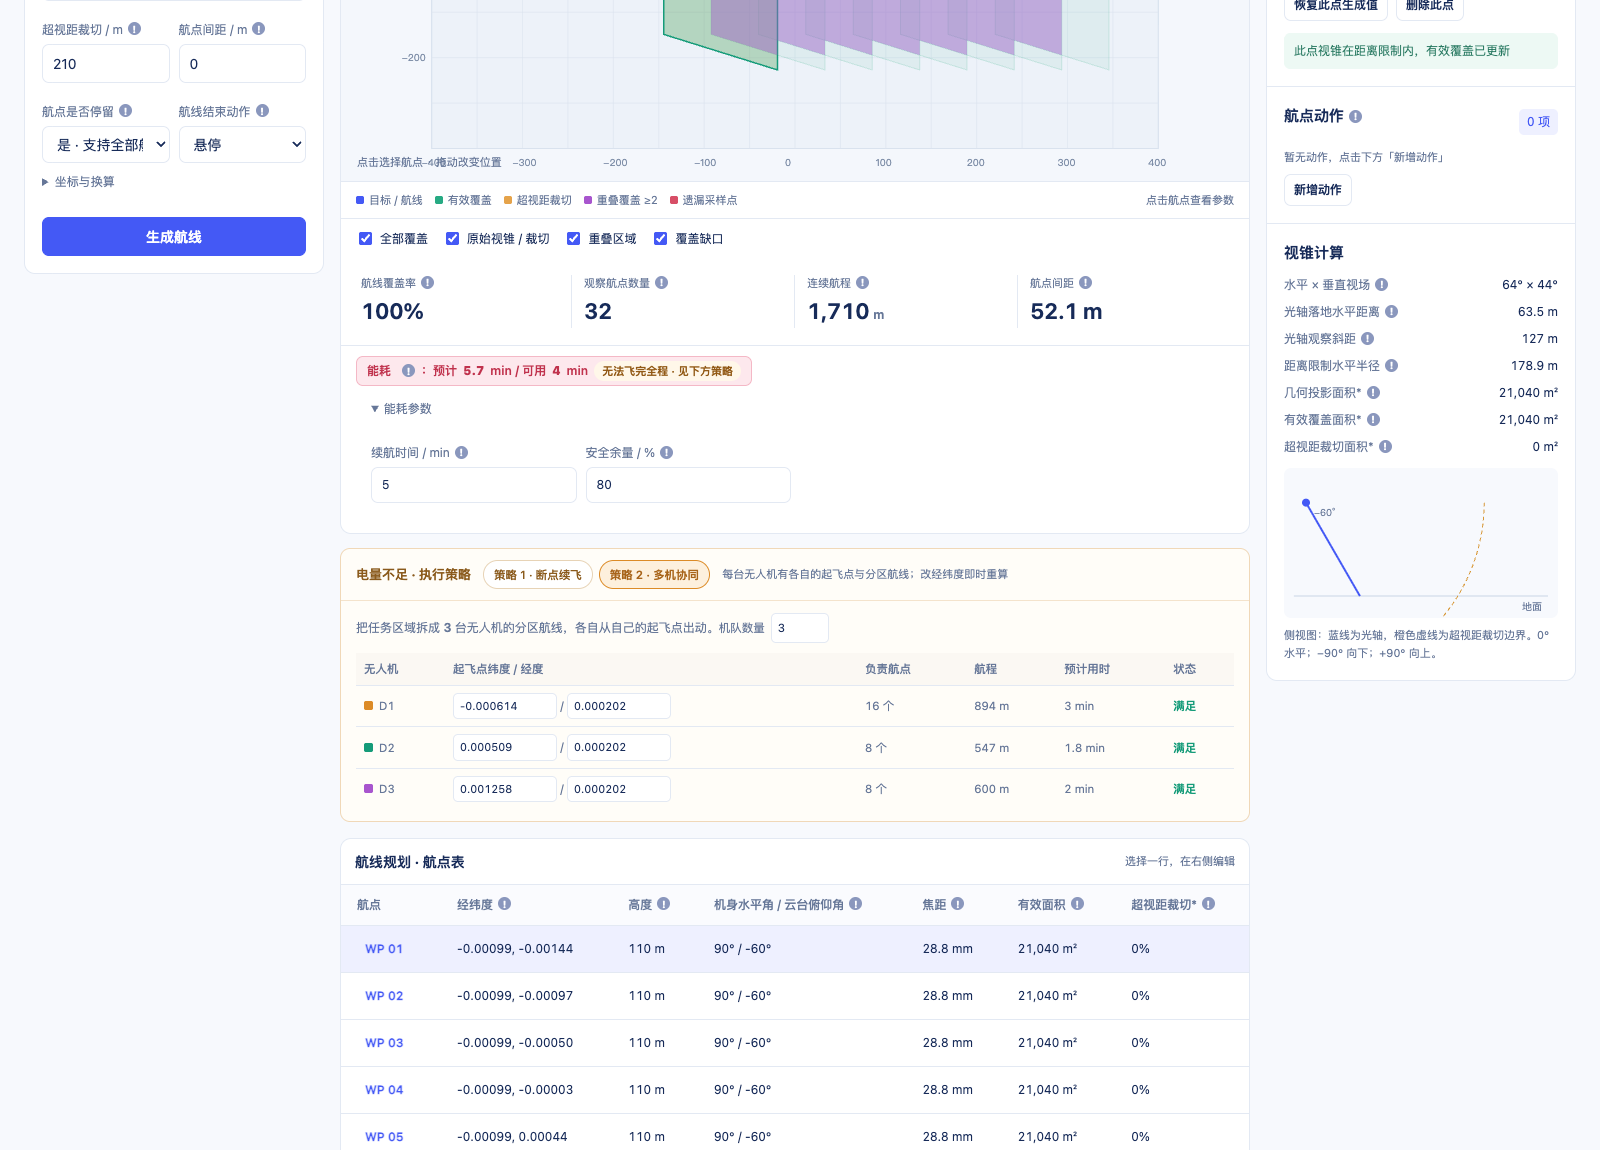
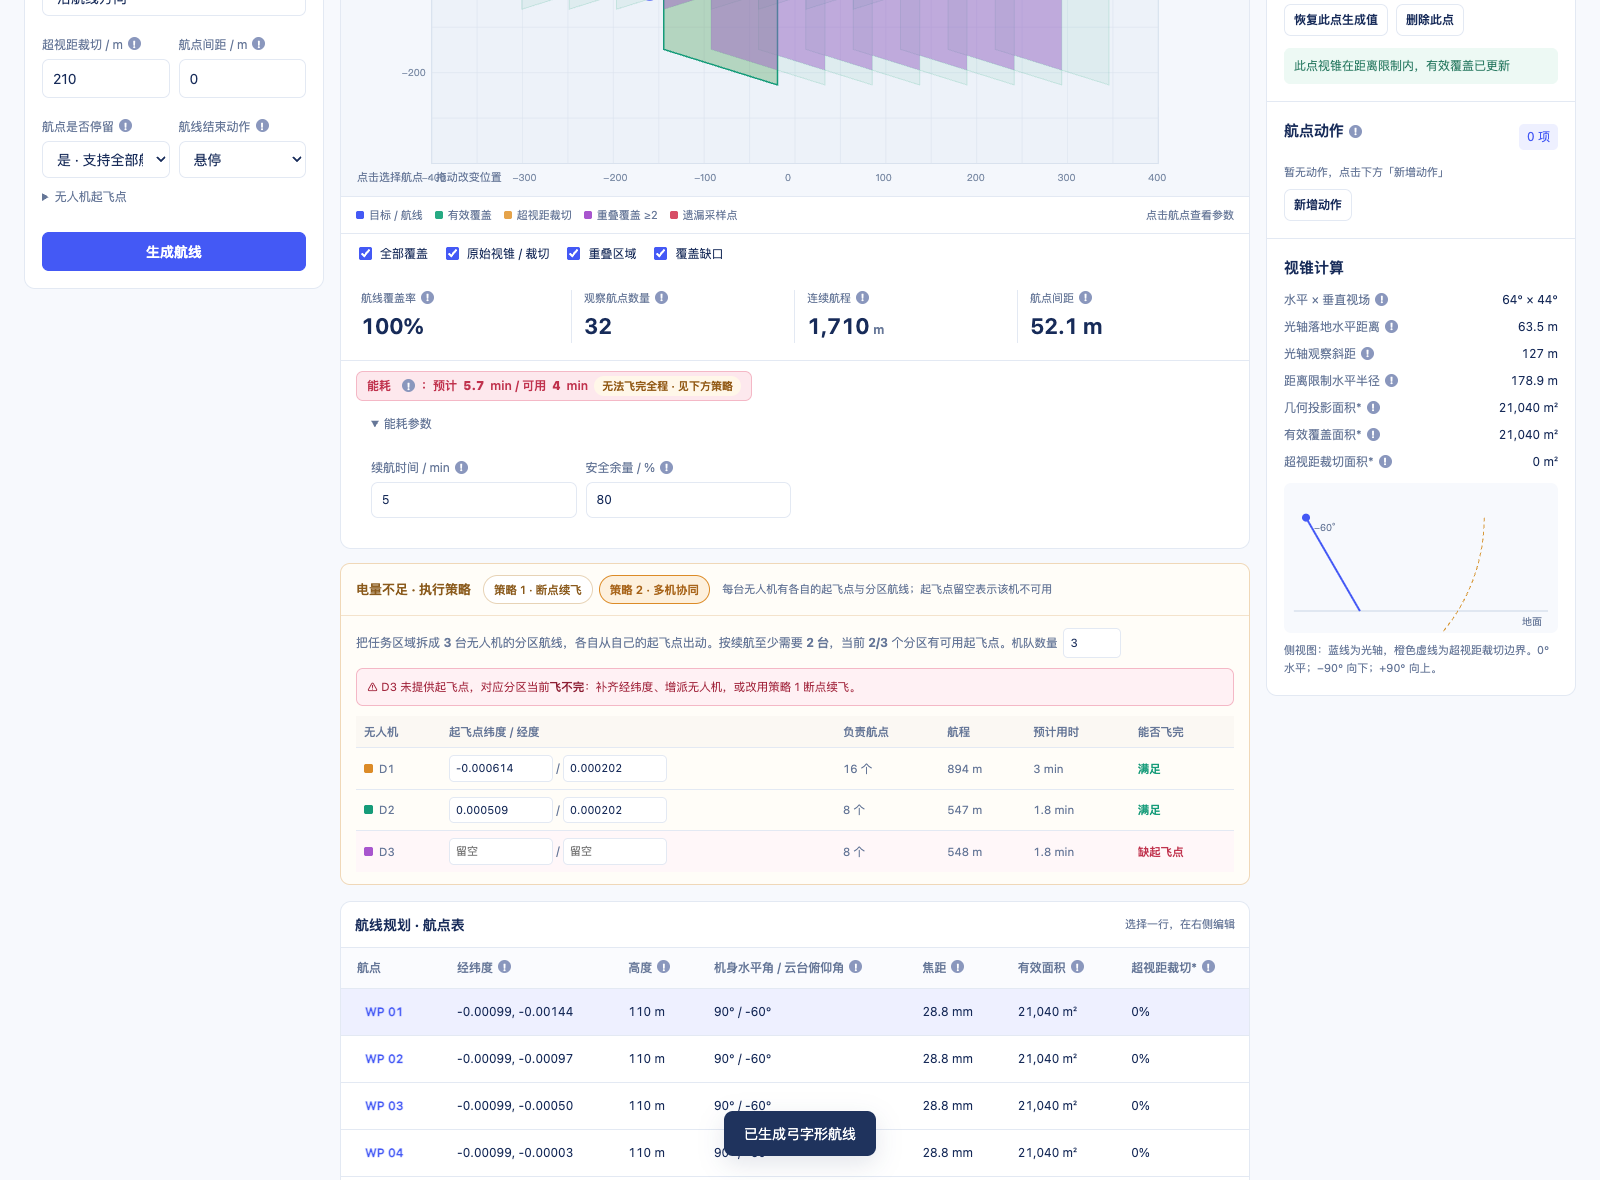
Rename take-off block, flag multi-drone partitions without a take-off point as unflyable (v1.4.1)

diff --git a/page/index.html b/page/index.html
@@ -60,6 +60,8 @@
 .plan-table input{width:104px;padding:4px 6px;border:1px solid var(--line);border-radius:5px;font-size:11px}
 .plan-bad{color:#c0324d;font-weight:600}
 .plan-ok{color:#159b79;font-weight:600}
+.plan-warn{margin:0 0 10px;padding:8px 10px;border-radius:7px;background:#fff1f4;border:1px solid #f4b8c6;color:#a3283f;font-size:11.5px;line-height:1.7}
+.plan-warn b{color:#8d1f34}
 .plan-count{display:inline-flex;align-items:center;gap:6px;font-size:11.5px}
 .plan-count input{width:58px;padding:4px 6px;border:1px solid var(--line);border-radius:5px}
 @media(max-width:1080px){.dev-layout{grid-template-columns:1fr}}
@@ -195,7 +197,7 @@
 </label>
 </div>
 <details>
-<summary>坐标与换算</summary>
+<summary>无人机起飞点</summary>
 <div class="pair">
 <label class="field">
 <span>起飞点纬度 / °<i class="fi" tabindex="0" data-tip="经纬度换算原点（等距圆柱近似）；画布绘制与坐标输入仍使用局部米制。">!</i></span>
@@ -595,18 +597,27 @@ function renderPlan(){const panel=$('planPanel'),body=$('planBody'),c=state.conf
    const k=Math.max(2,Math.min(6,+p.count||2));
    if(p.homes.length!==k)ensurePlanHomes(k);
    const res=planMulti(c,budget,k,p.homes);p.result={kind:'multi',...res};
-   $('planHint').textContent='每台无人机有各自的起飞点与分区航线；改经纬度即时重算';
-   const rows=res.drones.map((d,i)=>{const h=p.homes[i]||{lat:0,lon:0};
-     const st=d.feasible?'<span class="plan-ok">满足</span>':'<span class="plan-bad">超限</span>';
-     return '<tr><td><i style="display:inline-block;width:9px;height:9px;border-radius:2px;background:'+d.color+';margin-right:6px"></i>D'+d.id+'</td>'
-      +'<td><input data-home="'+i+'" data-key="lat" type="number" step="0.000001" value="'+h.lat+'"> / <input data-home="'+i+'" data-key="lon" type="number" step="0.000001" value="'+h.lon+'"></td>'
+   $('planHint').textContent='每台无人机有各自的起飞点与分区航线；起飞点留空表示该机不可用';
+   const needK=Math.max(1,Math.ceil(r.time/budget));
+   const needLabel=needK>6?'≥6 台（已达分区上限）':needK+' 台';
+   const have=res.drones.filter(d=>d.hasHome), miss=res.drones.filter(d=>!d.hasHome), over=res.drones.filter(d=>d.hasHome&&!d.feasible);
+   const rows=res.drones.map((d,i)=>{const h=p.homes[i]||{lat:null,lon:null};
+     const st=!d.hasHome?'<span class="plan-bad">缺起飞点</span>':(d.feasible?'<span class="plan-ok">满足</span>':'<span class="plan-bad">超限</span>');
+     const cls=d.feasible?'':(d.hasHome?'':' style="background:#fff7f9"');
+     const lat=Number.isFinite(+h.lat)?h.lat:'',lon=Number.isFinite(+h.lon)?h.lon:'';
+     return '<tr'+cls+'><td><i style="display:inline-block;width:9px;height:9px;border-radius:2px;background:'+d.color+';margin-right:6px"></i>D'+d.id+'</td>'
+      +'<td><input data-home="'+i+'" data-key="lat" type="number" step="0.000001" value="'+lat+'" placeholder="留空" aria-label="D'+d.id+' 起飞点纬度"> / <input data-home="'+i+'" data-key="lon" type="number" step="0.000001" value="'+lon+'" placeholder="留空" aria-label="D'+d.id+' 起飞点经度"></td>'
       +'<td>'+d.idx.length+' 个</td><td>'+format(d.dist,0)+' m</td><td>'+format(d.time/60,1)+' min</td><td>'+st+'</td></tr>';}).join('');
+   const warnMiss=miss.length?('<div class="plan-warn">⚠ '+miss.map(d=>'D'+d.id).join('、')+' 未提供起飞点，对应分区当前<b>飞不完</b>：补齐经纬度、增派无人机，或改用策略 1 断点续飞。</div>'):'';
+   const warnOver=over.length?('<div class="plan-warn">⚠ '+over.map(d=>'D'+d.id).join('、')+' 的分区航程超出单架次续航，需增加机队数量或提高续航。</div>'):'';
    body.innerHTML='<p class="plan-summary">把任务区域拆成 <b>'+res.drones.length+'</b> 台无人机的分区航线，各自从自己的起飞点出动。'
+    +'按续航至少需要 <b>'+needLabel+'</b>，当前 <b>'+have.length+'/'+res.drones.length+'</b> 个分区有可用起飞点。'
     +'<span class="plan-count">机队数量 <input id="planDroneCount" type="number" min="2" max="6" step="1" value="'+k+'"></span></p>'
-    +'<table class="plan-table"><thead><tr><th>无人机</th><th>起飞点纬度 / 经度</th><th>负责航点</th><th>航程</th><th>预计用时</th><th>状态</th></tr></thead><tbody>'+rows+'</tbody></table>';
+    +warnMiss+warnOver
+    +'<table class="plan-table"><thead><tr><th>无人机</th><th>起飞点纬度 / 经度</th><th>负责航点</th><th>航程</th><th>预计用时</th><th>能否飞完</th></tr></thead><tbody>'+rows+'</tbody></table>';
  }
 }
-function drawPlan(ctx,c,gnd){const res=state.plan&&state.plan.result;if(!res||!state.points.length)return;
+   function drawPlan(ctx,c,gnd){const res=state.plan&&state.plan.result;if(!res||!state.points.length)return;
  const three=state.view==='3d',z=q=>three?gnd(q.x,q.y)+(q.height??c.height):gnd(q.x,q.y);
  const leg=(pts,color,home)=>{
   const homePt=[home.x,home.y,gnd(home.x,home.y)];
@@ -620,7 +631,11 @@ function drawPlan(ctx,c,gnd){const res=state.plan&&state.plan.result;if(!res||!s
   res.sorties.forEach((so,i)=>leg(so.idx.map(k=>state.points[k]),PLAN_COLORS[i%PLAN_COLORS.length],{x:0,y:0}));
   home({x:0,y:0},PLAN_COLORS[0],'H');
  }else{
-  res.drones.forEach(d=>{leg(d.idx.map(k=>state.points[k]),d.color,d.local);home(d.local,d.color,'D'+d.id);});
+  res.drones.forEach(d=>{const qs=d.idx.map(k=>state.points[k]);
+   if(d.hasHome){leg(qs,d.color,d.local);home(d.local,d.color,'D'+d.id);return;}
+   if(!qs.length)return;
+   path(ctx,qs.map(q=>[q.x,q.y,z(q)]),false);ctx.setLineDash([6,5]);ctx.lineWidth=2;ctx.strokeStyle='#c0324d';ctx.stroke();ctx.setLineDash([]);
+   const q0=qs[0],xy=projection(q0.x,q0.y,z(q0));ctx.font='9px -apple-system,sans-serif';ctx.fillStyle='#c0324d';ctx.fillText('D'+d.id+' 缺起飞点',xy[0]+8,xy[1]-8);});
  }
 }
 function riskInfo(c,endMin=25,safePct=80){const waits=state.points.reduce((s,w)=>s+(w.actions||[]).reduce((t,a)=>t+(a.type==='wait'&&a.params&&Number.isFinite(+a.params.sec)?Math.max(0,+a.params.sec):0),0),0);const v=Math.max(.1,c.speed);const travel=routeLength()/v;const ret=c.endAction==='rth'&&state.points.length?Math.hypot(state.points[state.points.length-1].x,state.points[state.points.length-1].y)/v:0;const time=travel+waits+ret;const budget=endMin*60*(safePct/100);return {waits,travel,ret,time,budget,over:time>budget};}
@@ -710,13 +725,15 @@ function planMulti(c,budget,count,homes){const pts=state.points,v=Math.max(.1,c.
    const members=pts.map((p,i)=>({p,i})).filter(o=>assign[o.i]===ci);
    if(!members.length)continue;
    const home=(homes&&homes[ci])||null;
-   const H=home?homeLocal(home):{x:cents[ci].x,y:cents[ci].y};
+   const hasHome=!!(home&&home.lat!=null&&home.lon!=null&&Number.isFinite(+home.lat)&&Number.isFinite(+home.lon));
+   const H=hasHome?homeLocal(home):{x:cents[ci].x,y:cents[ci].y};
    const rest=members.slice(),order=[];let cur=H;
    while(rest.length){let bi=0,bd=Infinity;rest.forEach((o,j)=>{const d=Math.hypot(o.p.x-cur.x,o.p.y-cur.y);if(d<bd){bd=d;bi=j;}});const o=rest.splice(bi,1)[0];order.push(o);cur=o.p;}
    let out=0;let prev=H;for(const o of order){out+=Math.hypot(o.p.x-prev.x,o.p.y-prev.y);prev=o.p;}
    const lastP=order[order.length-1].p,back=c.endAction==='rth'?Math.hypot(lastP.x-H.x,lastP.y-H.y):0;
    const waits=order.reduce((t,o)=>t+waitSecOf(o.p),0),time=(out+back)/v+waits;
-   drones.push({id:drones.length+1,color:PLAN_COLORS[drones.length%PLAN_COLORS.length],local:H,idx:order.map(o=>o.i),dist:out+back,time,feasible:time<=budget+1e-6});
+   const feasible=hasHome&&time<=budget+1e-6;
+   drones.push({id:drones.length+1,color:PLAN_COLORS[drones.length%PLAN_COLORS.length],local:H,hasHome,idx:order.map(o=>o.i),dist:out+back,time,feasible,reason:!hasHome?'缺起飞点':(time>budget+1e-6?'超限':'')});
  }
  return {drones,k};}
 
@@ -771,7 +788,7 @@ $('simStop').onclick=()=>{simReset();draw();};
 document.querySelectorAll('.plan-tabs button').forEach(b=>{b.onclick=()=>{state.plan.strategy=b.dataset.strategy;state.plan.result=null;renderPlan();draw();};});
 $('planBody').addEventListener('change',e=>{const t=e.target;
  if(t.id==='planDroneCount'){const k=Math.max(2,Math.min(6,+t.value||2));state.plan.count=k;state.plan.homes=[];state.plan.result=null;renderPlan();draw();return;}
- if(t.dataset.home!=null){const i=+t.dataset.home,key=t.dataset.key;const h=state.plan.homes[i]||{lat:0,lon:0};h[key]=+t.value;state.plan.homes[i]=h;state.plan.result=null;renderPlan();draw();}});
+ if(t.dataset.home!=null){const i=+t.dataset.home,key=t.dataset.key;const h=state.plan.homes[i]||{lat:null,lon:null};const v=t.value.trim();h[key]=v===''?null:+v;state.plan.homes[i]=h;state.plan.result=null;renderPlan();draw();}});
 const fieldTip=document.createElement('div');fieldTip.id='fieldTip';document.body.appendChild(fieldTip);
 function showTip(t){const r=t.getBoundingClientRect();fieldTip.textContent=t.dataset.tip;fieldTip.classList.add('show');const w=fieldTip.offsetWidth,h=fieldTip.offsetHeight;let x=r.left+r.width/2-w/2;x=Math.max(8,Math.min(x,window.innerWidth-w-8));let y=r.top-h-8;if(y<8)y=r.bottom+8;fieldTip.style.left=x+'px';fieldTip.style.top=y+'px';}
 function hideTip(){fieldTip.classList.remove('show');}

diff --git a/README.md b/README.md
@@ -127,7 +127,7 @@ cd dsh-drone-planner && git pull
 每架次都包含「从起飞点出发 → 覆盖该段 → 返回起飞点」，因此预算要扣掉往返；某段单程已超过续航时该架次标红「超限」，提示需换电/换机或提高续航。
 
 **策略 2 · 多机协同**
-把任务区域拆成 2–6 台无人机的分区航线（k-means 按航点位置分区，各机从自己的起飞点按最近邻串起本区航点）：
+把任务区域拆成 2–6 台无人机的分区航线（k-means 按航点位置分区，各机从自己的起飞点按最近邻串起本区航点），并先告诉你**按续航至少需要几台**：
 
 | 无人机 | 起飞点纬度 / 经度 | 负责航点 | 航程 | 预计用时 | 状态 |
 | --- | --- | --- | --- | --- | --- |
@@ -137,6 +137,17 @@ cd dsh-drone-planner && git pull
 - **每台无人机有自己的起飞点经纬度**：默认取该分区中心，可直接在表格里改，改完即时重算该机航程与用时；
 - 机队数量 2–6 可调，调整后按新数量重新分区；
 - 分区航线在画布上用不同颜色绘制（含起飞点三角标记与返航虚线），与航线规划 tab 的绿色覆盖叠加显示。
+
+**机队不够时怎么办（重点）**：需要 3 台而手上只有 2 台时，把用不上的那台起飞点**清空**即可——
+留空代表该机不可用，界面会立刻给出可执行性结论：
+
+- 汇总行写明「按续航至少需要 N 台；当前 1/3 个分区有可用起飞点」；
+- 表格「能否飞完」列逐机标注 **满足 / 超限 / 缺起飞点**；
+- 顶部红字提示点名哪几台飞不完：「⚠ D2、D3 未提供起飞点，对应分区当前飞不完：补齐经纬度、增派无人机，或改用策略 1 断点续飞」；
+- 画布上缺起飞点的分区改为**红色虚线**并标注「D2 缺起飞点」，有起飞点的分区仍按颜色正常绘制；
+- 补回经纬度后提示立即消失，该分区恢复「满足」。
+
+需要台数超过 6 台时汇总显示「≥6 台（已达分区上限）」，避免给出做不到的数字。
 
 **口径**：分区只看航点位置，不考虑禁飞区、地形与空域；用时＝(去程＋区内航段＋返航)÷航线速度＋等待，与「能耗参数」里的续航/余量联动。两种策略都只做方案计算与可视化，不会真的下发任务。
 
@@ -206,10 +217,10 @@ cd dsh-drone-planner && git pull
 
 **航线预设**：高度模式（相对地形/海拔）、全局速度 0.1–15 m/s、偏航角模式（沿航线方向/固定机身姿态，
 机身角度/云台俯仰/变焦均可留空取默认）、航点是否停留、航线结束动作、超视距裁切距离、最小航点间距、
-起飞点经纬度。
+起飞点经纬度（面板里的折叠项「无人机起飞点」）。
 
 **航线规划**：航线覆盖率、观察航点数量、连续航程、航点间距；经纬度航点表（高度、机身水平角、
-云台俯仰角、焦距、有效面积、超视距裁切）；风险评估（低高度提醒、间距冲突、能耗与断点续飞）。
+云台俯仰角、焦距、有效面积、超视距裁切）；风险评估（低高度提醒、间距冲突、能耗；电量不足时给出断点续飞 / 多机协同两种执行策略）。
 
 **航点编辑**：坐标/经纬度、逐点高度、机身水平角、云台俯仰角、变焦、视锥明细、航点动作
 （智拍/云台/挂载，按「是否停留」门控）。
